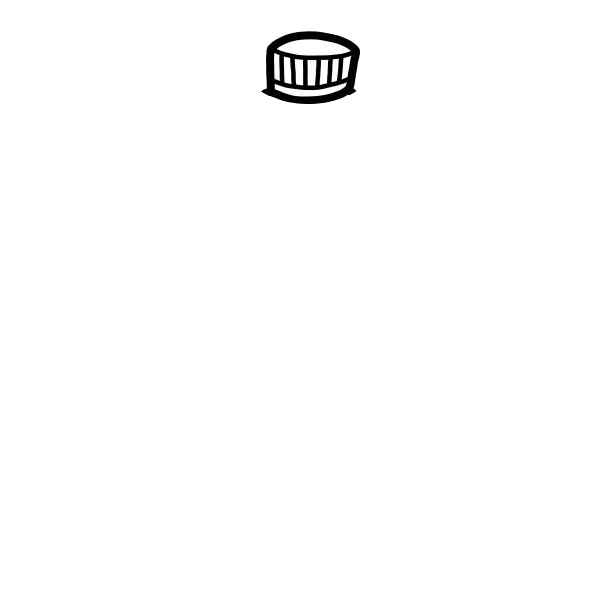
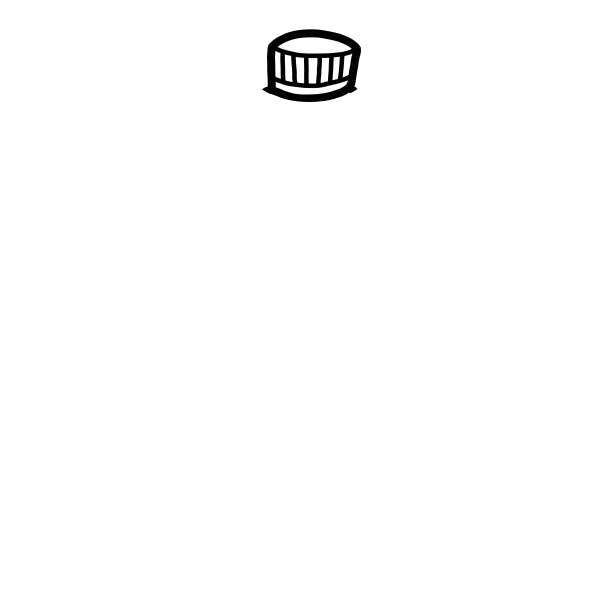
Fixed the offset on coffee cup images.

Changed region(s): [[0.4346, 0.031, 0.5899, 0.1863]]

diff --git a/public/index.js b/public/index.js
@@ -79,7 +79,7 @@ function recyclablePageChange() {
 // Change the layout to Play page
 function playPageChange() {
   hideThingsForPlayPage();
-  moveBins_play();
+  // moveBins_play();
 };
 
 /**************** Home and Recyclable page switching functions animations ****************/
